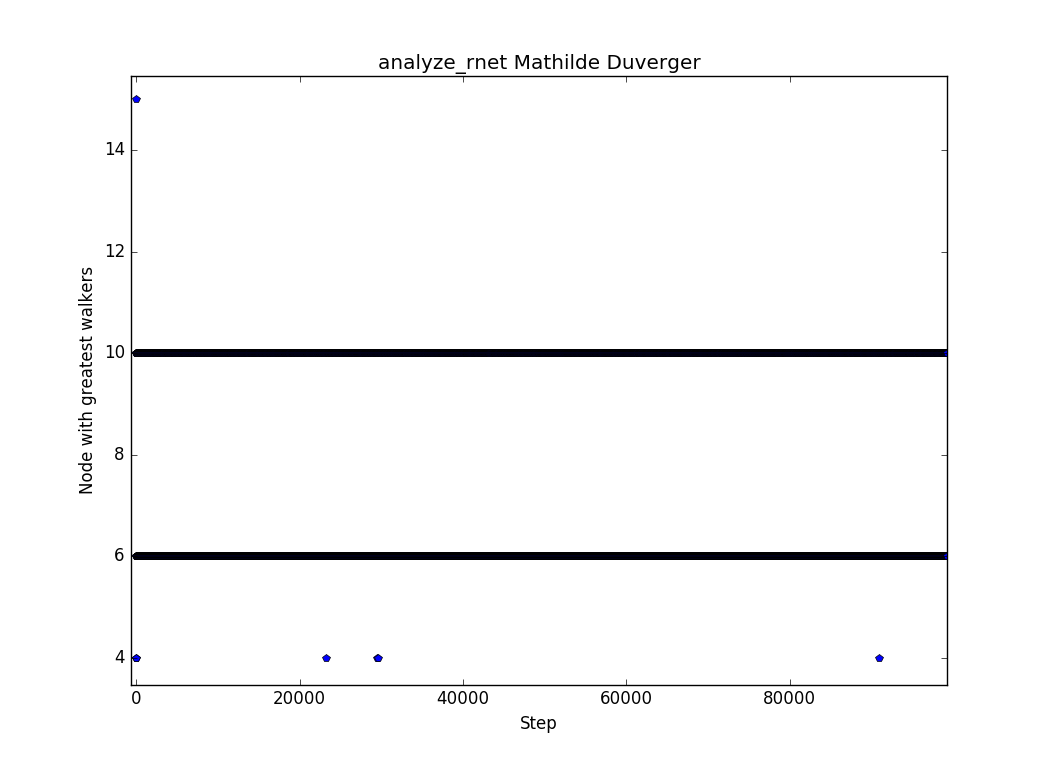
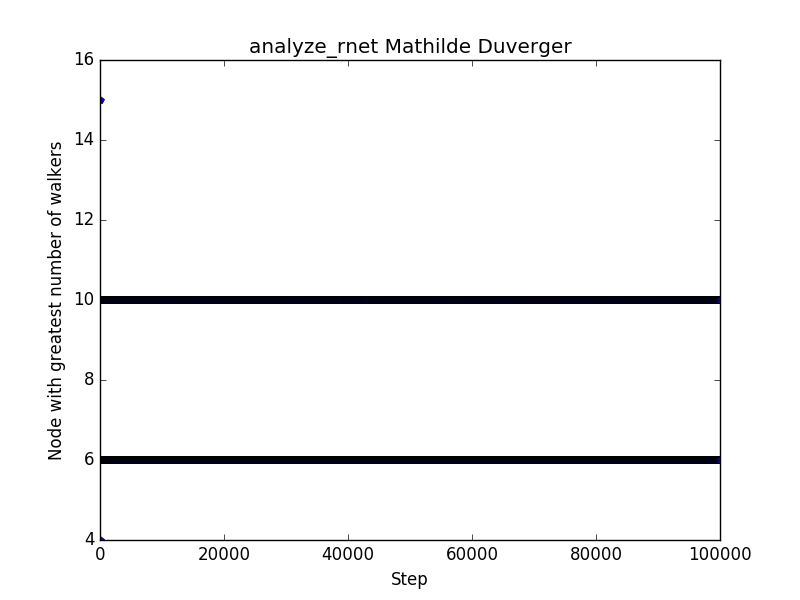
Part1

diff --git a/part1/part1_dev.py b/part1/part1_dev.py
@@ -29,7 +29,7 @@ def analyze_rnet(Ntime,m,X0,N0,L,Nt,display=False):
             plt.plot(range(1,int(Ntime+1)),maxloc,'p')
             plt.title('analyze_rnet Mathilde Duverger')
             plt.xlabel('Step')
-            plt.ylabel('Node with greatest walkers')
+            plt.ylabel('Node with greatest number of walkers')
             plt.show()
         return F
 
@@ -39,7 +39,8 @@ def convergence_rnet(Ntime,m,X0,N0,L,Nt,display=False):
         """This code computes the fraction of walkers at the initial
         node in the final timestep for different number of walkers, m.
         From the plot, we notice that the fraction of walkers firstly increases
-        converges to a value between 0.04 and 0.05. """
+        and then converges to a value between 0.04 and 0.05. We can say that
+        approximately 4 percent of walkers end up in the node they started in"""
     	"""Input variables:
 	Ntime: number of time steps
     	m: number of walks
